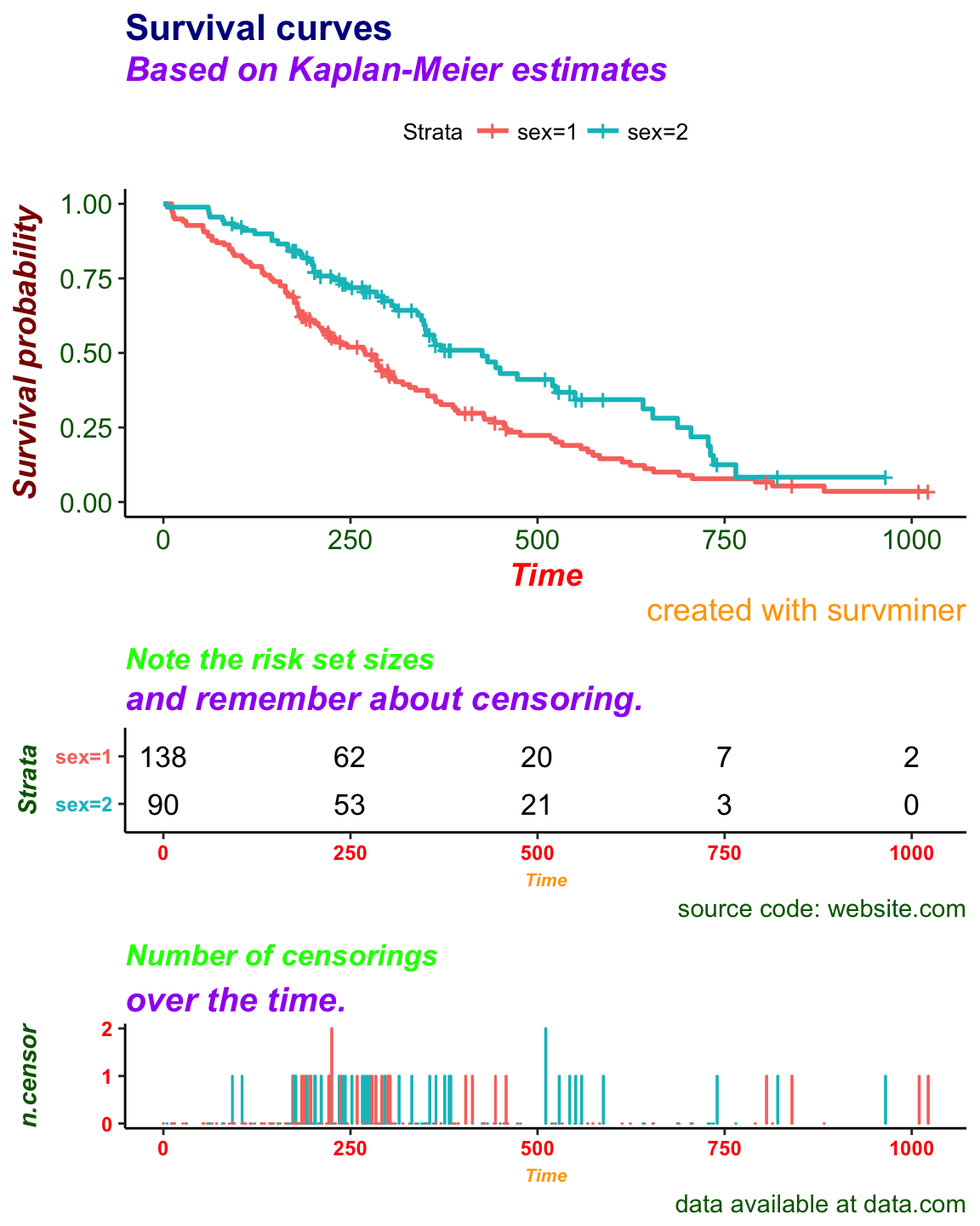
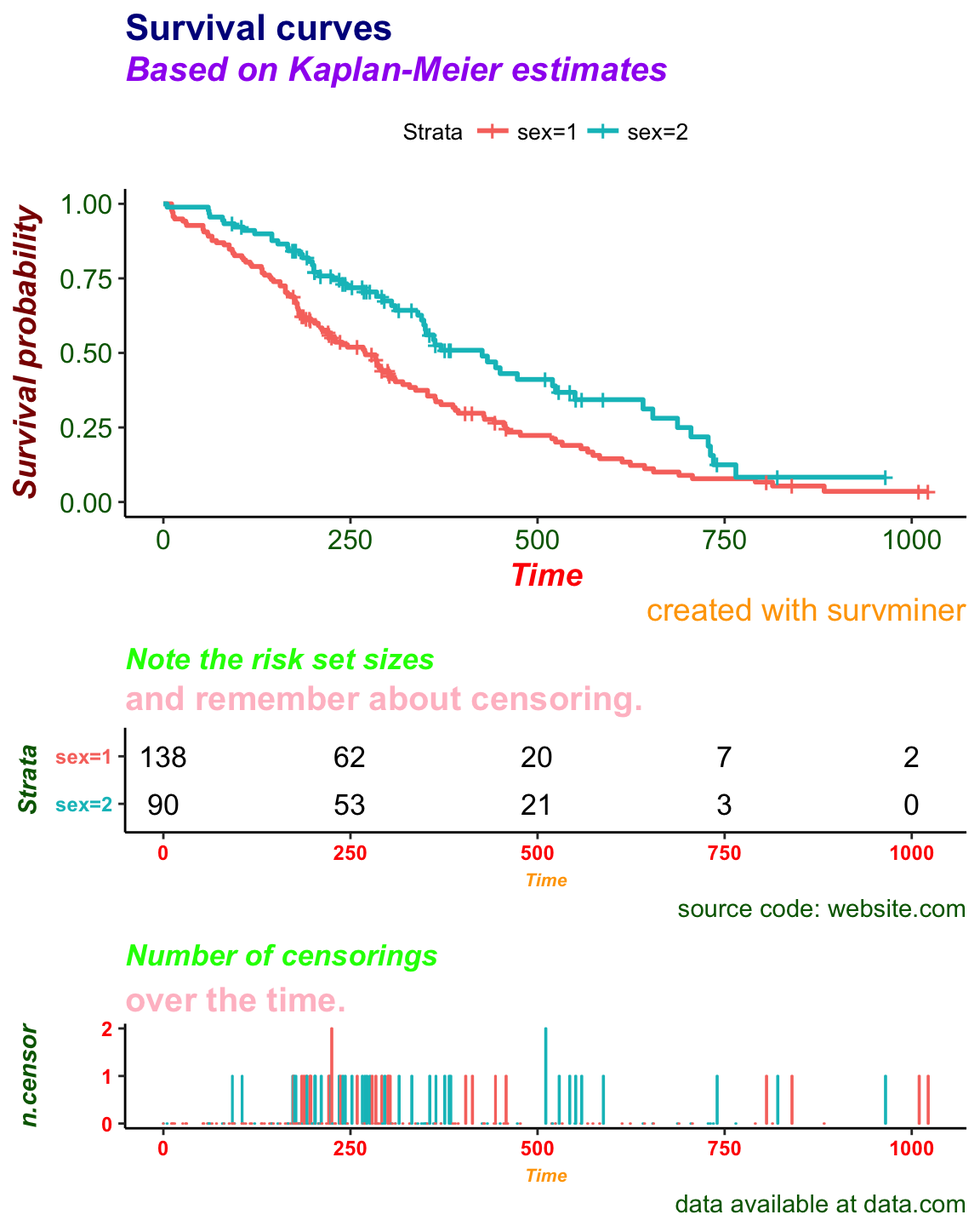
survminer pkgdown site built #116

Changed region(s): [[0.125, 0.5625, 0.6562, 0.5938], [0.125, 0.7812, 0.3438, 0.8438]]

diff --git a/docs/reference/ggsurvevents.html b/docs/reference/ggsurvevents.html
@@ -1,0 +1,166 @@
+<!-- Generated by pkgdown: do not edit by hand -->
+<!DOCTYPE html>
+<html>
+  <head>
+  <meta charset="utf-8">
+<meta http-equiv="X-UA-Compatible" content="IE=edge">
+<meta name="viewport" content="width=device-width, initial-scale=1.0">
+
+<title>Distribution of Event&#39;s Times — ggsurvevents • survminer</title>
+
+<!-- jquery -->
+<script src="https://code.jquery.com/jquery-3.1.0.min.js" integrity="sha384-nrOSfDHtoPMzJHjVTdCopGqIqeYETSXhZDFyniQ8ZHcVy08QesyHcnOUpMpqnmWq" crossorigin="anonymous"></script>
+<!-- Bootstrap -->
+<link href="https://maxcdn.bootstrapcdn.com/bootswatch/3.3.7/flatly/bootstrap.min.css" rel="stylesheet" crossorigin="anonymous">
+
+<script src="https://maxcdn.bootstrapcdn.com/bootstrap/3.3.7/js/bootstrap.min.js" integrity="sha384-Tc5IQib027qvyjSMfHjOMaLkfuWVxZxUPnCJA7l2mCWNIpG9mGCD8wGNIcPD7Txa" crossorigin="anonymous"></script>
+
+<!-- Font Awesome icons -->
+<link href="https://maxcdn.bootstrapcdn.com/font-awesome/4.6.3/css/font-awesome.min.css" rel="stylesheet" integrity="sha384-T8Gy5hrqNKT+hzMclPo118YTQO6cYprQmhrYwIiQ/3axmI1hQomh7Ud2hPOy8SP1" crossorigin="anonymous">
+
+
+<!-- pkgdown -->
+<link href="../pkgdown.css" rel="stylesheet">
+<script src="../jquery.sticky-kit.min.js"></script>
+<script src="../pkgdown.js"></script>
+
+<!-- mathjax -->
+<script src='https://cdn.mathjax.org/mathjax/latest/MathJax.js?config=TeX-AMS-MML_HTMLorMML'></script>
+
+<!--[if lt IE 9]>
+<script src="https://oss.maxcdn.com/html5shiv/3.7.3/html5shiv.min.js"></script>
+<script src="https://oss.maxcdn.com/respond/1.4.2/respond.min.js"></script>
+<![endif]-->
+  </head>
+
+  <body>
+    <div class="container template-reference-topic">
+      <header>
+      <div class="navbar navbar-default navbar-fixed-top" role="navigation">
+  <div class="container">
+    <div class="navbar-header">
+      <button type="button" class="navbar-toggle collapsed" data-toggle="collapse" data-target="#navbar">
+        <span class="icon-bar"></span>
+        <span class="icon-bar"></span>
+        <span class="icon-bar"></span>
+      </button>
+      <a class="navbar-brand" href="../index.html">survminer</a>
+    </div>
+    <div id="navbar" class="navbar-collapse collapse">
+      <ul class="nav navbar-nav">
+        <li>
+  <a href="../reference/index.html">Reference</a>
+</li>
+<li>
+  <a href="../articles/index.html">Articles</a>
+</li>
+<li>
+  <a href="../news/index.html">News</a>
+</li>
+      </ul>
+      
+      <ul class="nav navbar-nav navbar-right">
+        
+      </ul>
+    </div><!--/.nav-collapse -->
+  </div><!--/.container -->
+</div><!--/.navbar -->
+
+      
+      </header>
+
+      <div class="row">
+  <div class="col-md-9 contents">
+    <div class="page-header">
+    <h1>Distribution of Event&#39;s Times</h1>
+    </div>
+
+    
+    <p>Distribution of Event&#39;s Times</p>
+    
+
+    <pre><span class='fu'>ggsurvevents</span>(<span class='kw'>surv</span> <span class='kw'>=</span> <span class='kw'>NULL</span>, <span class='kw'>fit</span> <span class='kw'>=</span> <span class='kw'>NULL</span>, <span class='kw'>data</span> <span class='kw'>=</span> <span class='kw'>NULL</span>, <span class='kw'>type</span> <span class='kw'>=</span> <span class='st'>"fraction"</span>,
+  <span class='kw'>normalized</span> <span class='kw'>=</span> <span class='fl'>TRUE</span>, <span class='kw'>censored.on.top</span> <span class='kw'>=</span> <span class='fl'>TRUE</span>, <span class='kw'>ggtheme</span> <span class='kw'>=</span> <span class='fu'><a href='theme_classic2.html'>theme_classic2</a></span>(),
+  <span class='kw'>palette</span> <span class='kw'>=</span> <span class='fu'>c</span>(<span class='st'>"grey75"</span>, <span class='st'>"grey25"</span>), <span class='kw'>font.main</span> <span class='kw'>=</span> <span class='fu'>c</span>(<span class='fl'>16</span>, <span class='st'>"plain"</span>, <span class='st'>"black"</span>),
+  <span class='kw'>font.submain</span> <span class='kw'>=</span> <span class='fu'>c</span>(<span class='fl'>15</span>, <span class='st'>"plain"</span>, <span class='st'>"black"</span>), <span class='kw'>font.caption</span> <span class='kw'>=</span> <span class='fu'>c</span>(<span class='fl'>15</span>, <span class='st'>"plain"</span>,
+  <span class='st'>"black"</span>), <span class='kw'>font.x</span> <span class='kw'>=</span> <span class='fu'>c</span>(<span class='fl'>14</span>, <span class='st'>"plain"</span>, <span class='st'>"black"</span>), <span class='kw'>font.y</span> <span class='kw'>=</span> <span class='fu'>c</span>(<span class='fl'>14</span>, <span class='st'>"plain"</span>,
+  <span class='st'>"black"</span>), <span class='kw'>font.tickslab</span> <span class='kw'>=</span> <span class='fu'>c</span>(<span class='fl'>12</span>, <span class='st'>"plain"</span>, <span class='st'>"black"</span>))</pre>
+    
+    <h2 class="hasAnchor" id="arguments"><a class="anchor" href="#arguments"></a> Arguments</h2>
+    <dl class="dl-horizontal">
+      <dt>surv</dt>
+      <dd>an object of Surv. If not suplied, the censoring variable is extracted from the model.</dd>
+      <dt>fit</dt>
+      <dd>an object of class survfit.</dd>
+      <dt>data</dt>
+      <dd>a dataset for predictions. If not supplied then data will be extracted from `fit` object.</dd>
+      <dt>type</dt>
+      <dd>one of <code>c(&quot;cumulative&quot;, &quot;radius&quot;, &quot;fraction&quot;)</code>. <code>&quot;cumulative&quot;</code> stands for cumulative number of events, <code>&quot;radius&quot;</code> stands for number of events within a given radius,</dd>
+      <dt>normalized</dt>
+      <dd>if <code>TRUE</code> relative number of events is presented,</dd>
+      <dt>censored.on.top</dt>
+      <dd>is TRUE then censored events are on the top</dd>
+      <dt>ggtheme</dt>
+      <dd>function, ggplot2 theme name. Default value is theme_classic2. Allowed values include ggplot2 official themes: see theme.</dd>
+      <dt>palette</dt>
+      <dd>the color palette to be used for coloring of significant variables.</dd>
+      <dt>font.main, font.submain, font.caption, font.x, font.y, font.tickslab</dt>
+      <dd>a vector of length 3
+indicating respectively the size (e.g.: 14), the style (e.g.: &quot;plain&quot;,
+&quot;bold&quot;, &quot;italic&quot;, &quot;bold.italic&quot;) and the color (e.g.: &quot;red&quot;) of main title, subtitle, caption,
+xlab and ylab and axis tick labels, respectively. For example <em>font.x =
+c(14, &quot;bold&quot;, &quot;red&quot;)</em>.  Use font.x = 14, to change only font size; or use
+font.x = &quot;bold&quot;, to change only font face.</dd>
+    </dl>
+    
+    <h2 class="hasAnchor" id="value"><a class="anchor" href="#value"></a>Value</h2>
+
+    <p>return an object of class ggplot</p>
+    
+
+    <h2 class="hasAnchor" id="examples"><a class="anchor" href="#examples"></a>Examples</h2>
+    <pre class="examples"><div class='input'><span class='fu'>require</span>(<span class='st'>"survival"</span>)
+<span class='co'># from Surv</span>
+<span class='no'>surv</span> <span class='kw'>&lt;-</span> <span class='fu'>Surv</span>(<span class='no'>lung</span>$<span class='no'>time</span>, <span class='no'>lung</span>$<span class='no'>status</span>)
+<span class='fu'>ggsurvevents</span>(<span class='no'>surv</span>)</div><img src='ggsurvevents-2.png' alt='' width='540' height='400' /><div class='input'>
+<span class='no'>surv2</span> <span class='kw'>&lt;-</span> <span class='fu'>Surv</span>(<span class='no'>colon</span>$<span class='no'>time</span>, <span class='no'>colon</span>$<span class='no'>status</span>)
+<span class='fu'>ggsurvevents</span>(<span class='no'>surv2</span>)</div><img src='ggsurvevents-4.png' alt='' width='540' height='400' /><div class='input'><span class='fu'>ggsurvevents</span>(<span class='no'>surv2</span>, <span class='kw'>normalized</span> <span class='kw'>=</span> <span class='fl'>TRUE</span>)</div><img src='ggsurvevents-6.png' alt='' width='540' height='400' /><div class='input'>
+<span class='co'># from survfit</span>
+<span class='no'>fit</span> <span class='kw'>&lt;-</span> <span class='fu'>survfit</span>(<span class='fu'>Surv</span>(<span class='no'>time</span>, <span class='no'>status</span>) ~ <span class='no'>sex</span>, <span class='kw'>data</span> <span class='kw'>=</span> <span class='no'>lung</span>)
+<span class='fu'>ggsurvevents</span>(<span class='kw'>fit</span> <span class='kw'>=</span> <span class='no'>fit</span>)</div><div class='output co'>#&gt; <span class='warning'>Warning: The `surv` argument is not provided. The censored variable will be extracted from model fit.</span></div><div class='output co'>#&gt; <span class='warning'>Warning: The `data` argument is not provided. Data will be extracted from model fit.</span></div><img src='ggsurvevents-10.png' alt='' width='540' height='400' /><div class='input'>
+<span class='co'># from coxph</span>
+<span class='no'>model</span> <span class='kw'>&lt;-</span> <span class='fu'>coxph</span>( <span class='fu'>Surv</span>(<span class='no'>time</span>, <span class='no'>status</span>) ~ <span class='no'>sex</span> + <span class='no'>rx</span> + <span class='no'>adhere</span>, <span class='kw'>data</span> <span class='kw'>=</span> <span class='no'>colon</span> )
+<span class='fu'>ggsurvevents</span>(<span class='kw'>fit</span> <span class='kw'>=</span> <span class='no'>model</span>)</div><div class='output co'>#&gt; <span class='warning'>Warning: The `surv` argument is not provided. The censored variable will be extracted from model fit.</span></div><div class='output co'>#&gt; <span class='warning'>Warning: The `data` argument is not provided. Data will be extracted from model fit.</span></div><img src='ggsurvevents-14.png' alt='' width='540' height='400' /><div class='input'><span class='fu'>ggsurvevents</span>(<span class='no'>surv2</span>, <span class='kw'>normalized</span> <span class='kw'>=</span> <span class='fl'>TRUE</span>, <span class='kw'>type</span> <span class='kw'>=</span> <span class='st'>"radius"</span>)</div><img src='ggsurvevents-16.png' alt='' width='540' height='400' /><div class='input'><span class='fu'>ggsurvevents</span>(<span class='no'>surv2</span>, <span class='kw'>normalized</span> <span class='kw'>=</span> <span class='fl'>TRUE</span>, <span class='kw'>type</span> <span class='kw'>=</span> <span class='st'>"fraction"</span>)</div><img src='ggsurvevents-18.png' alt='' width='540' height='400' /><div class='input'>
+</div></pre>
+  </div>
+  <div class="col-md-3 hidden-xs hidden-sm" id="sidebar">
+    <h2>Contents</h2>
+    <ul class="nav nav-pills nav-stacked">
+      <li><a href="#arguments">Arguments</a></li>
+      
+      <li><a href="#value">Value</a></li>
+      
+      <li><a href="#examples">Examples</a></li>
+    </ul>
+
+    <h2>Author</h2>
+    
+Przemyslaw Biecek, <a href='mailto:przemyslaw.biecek@gmail.com'>przemyslaw.biecek@gmail.com</a>
+
+  </div>
+</div>
+
+      <footer>
+      <div class="copyright">
+  <p>Developed by Alboukadel Kassambara, Marcin Kosinski.</p>
+</div>
+
+<div class="pkgdown">
+  <p>Site built with <a href="http://hadley.github.io/pkgdown/">pkgdown</a>.</p>
+</div>
+
+      </footer>
+   </div>
+
+  </body>
+</html>

diff --git a/docs/reference/ggcoxadjustedcurves.html b/docs/reference/ggcoxadjustedcurves.html
@@ -83,9 +83,9 @@ Then the predictions are averaged with respect to a selected variable.</p>
     
 
     <pre><span class='fu'>ggcoxadjustedcurves</span>(<span class='no'>fit</span>, <span class='kw'>variable</span> <span class='kw'>=</span> <span class='kw'>NULL</span>, <span class='kw'>individual.curves</span> <span class='kw'>=</span> <span class='fl'>FALSE</span>,
-  <span class='kw'>data</span> <span class='kw'>=</span> <span class='kw'>NULL</span>, <span class='kw'>curve.size</span> <span class='kw'>=</span> <span class='fl'>2</span>, <span class='kw'>curve.alpha</span> <span class='kw'>=</span> <span class='fl'>0.2</span>, <span class='kw'>font.main</span> <span class='kw'>=</span> <span class='fu'>c</span>(<span class='fl'>16</span>,
-  <span class='st'>"plain"</span>, <span class='st'>"black"</span>), <span class='kw'>font.x</span> <span class='kw'>=</span> <span class='fu'>c</span>(<span class='fl'>14</span>, <span class='st'>"plain"</span>, <span class='st'>"black"</span>), <span class='kw'>font.y</span> <span class='kw'>=</span> <span class='fu'>c</span>(<span class='fl'>14</span>,
-  <span class='st'>"plain"</span>, <span class='st'>"black"</span>), <span class='kw'>font.tickslab</span> <span class='kw'>=</span> <span class='fu'>c</span>(<span class='fl'>12</span>, <span class='st'>"plain"</span>, <span class='st'>"black"</span>),
+  <span class='kw'>data</span> <span class='kw'>=</span> <span class='kw'>NULL</span>, <span class='kw'>palette</span> <span class='kw'>=</span> <span class='st'>"hue"</span>, <span class='kw'>curve.size</span> <span class='kw'>=</span> <span class='fl'>2</span>, <span class='kw'>curve.alpha</span> <span class='kw'>=</span> <span class='fl'>0.2</span>,
+  <span class='kw'>font.main</span> <span class='kw'>=</span> <span class='fu'>c</span>(<span class='fl'>16</span>, <span class='st'>"plain"</span>, <span class='st'>"black"</span>), <span class='kw'>font.x</span> <span class='kw'>=</span> <span class='fu'>c</span>(<span class='fl'>14</span>, <span class='st'>"plain"</span>, <span class='st'>"black"</span>),
+  <span class='kw'>font.y</span> <span class='kw'>=</span> <span class='fu'>c</span>(<span class='fl'>14</span>, <span class='st'>"plain"</span>, <span class='st'>"black"</span>), <span class='kw'>font.tickslab</span> <span class='kw'>=</span> <span class='fu'>c</span>(<span class='fl'>12</span>, <span class='st'>"plain"</span>, <span class='st'>"black"</span>),
   <span class='kw'>ylab</span> <span class='kw'>=</span> <span class='st'>"Survival rate"</span>, <span class='kw'>ggtheme</span> <span class='kw'>=</span> <span class='fu'><a href='theme_classic2.html'>theme_classic2</a></span>())</pre>
     
     <h2 class="hasAnchor" id="arguments"><a class="anchor" href="#arguments"></a> Arguments</h2>
@@ -98,6 +98,13 @@ Then the predictions are averaged with respect to a selected variable.</p>
       <dd>if TRUE then all individual predicted survival curves will be plotted</dd>
       <dt>data</dt>
       <dd>a dataset for predictions. If not supplied then data will be extracted from `fit` object.</dd>
+      <dt>palette</dt>
+      <dd>the color palette to be used for coloring or filling by
+groups. Allowed values include &quot;grey&quot; for grey color palettes; brewer
+palettes e.g. &quot;RdBu&quot;, &quot;Blues&quot;, ...; or custom color palette e.g. c(&quot;blue&quot;,
+&quot;red&quot;); and scientific journal palettes from ggsci R package, e.g.: &quot;npg&quot;,
+&quot;aaas&quot;, &quot;lancet&quot;, &quot;jco&quot;, &quot;ucscgb&quot;, &quot;uchicago&quot;, &quot;simpsons&quot; and
+&quot;rickandmorty&quot;.</dd>
       <dt>curve.size, curve.alpha</dt>
       <dd>size and alpha for individual survival curves</dd>
       <dt>font.main, font.x, font.y, font.tickslab</dt>
@@ -126,8 +133,8 @@ Allowed values include ggplot2 official themes: see <code><a href='http://www.rd
 
 <span class='fu'>ggcoxadjustedcurves</span>(<span class='no'>fit</span>, <span class='kw'>data</span> <span class='kw'>=</span> <span class='no'>colon</span>)</div><img src='ggcoxadjustedcurves-2.png' alt='' width='540' height='400' /><div class='input'>
 <span class='no'>fit2</span> <span class='kw'>&lt;-</span> <span class='fu'>coxph</span>( <span class='fu'>Surv</span>(<span class='no'>stop</span>, <span class='no'>event</span>) ~ <span class='no'>rx</span> + <span class='no'>size</span>, <span class='kw'>data</span> <span class='kw'>=</span> <span class='no'>bladder</span> )
-<span class='fu'>ggcoxadjustedcurves</span>(<span class='no'>fit2</span>)</div><div class='output co'>#&gt; <span class='warning'>Warning: The `data` argument is not provided. Data will be extracted from model fit.</span></div><img src='ggcoxadjustedcurves-5.png' alt='' width='540' height='400' /><div class='input'><span class='fu'>ggcoxadjustedcurves</span>(<span class='no'>fit2</span>, <span class='kw'>individual.curves</span> <span class='kw'>=</span> <span class='fl'>TRUE</span>, <span class='kw'>data</span> <span class='kw'>=</span> <span class='no'>bladder</span>, <span class='kw'>curve.alpha</span><span class='kw'>=</span><span class='fl'>0.01</span>)</div><img src='ggcoxadjustedcurves-7.png' alt='' width='540' height='400' /><div class='input'><span class='fu'>ggcoxadjustedcurves</span>(<span class='no'>fit2</span>, <span class='kw'>individual.curves</span> <span class='kw'>=</span> <span class='fl'>TRUE</span>, <span class='kw'>curve.alpha</span><span class='kw'>=</span><span class='fl'>0.01</span>)</div><div class='output co'>#&gt; <span class='warning'>Warning: The `data` argument is not provided. Data will be extracted from model fit.</span></div><img src='ggcoxadjustedcurves-10.png' alt='' width='540' height='400' /><div class='input'><span class='fu'>ggcoxadjustedcurves</span>(<span class='no'>fit2</span>, <span class='kw'>variable</span><span class='kw'>=</span><span class='fu'>factor</span>( <span class='no'>bladder</span>[,<span class='st'>"rx"</span>]))</div><div class='output co'>#&gt; <span class='warning'>Warning: The `data` argument is not provided. Data will be extracted from model fit.</span></div><img src='ggcoxadjustedcurves-13.png' alt='' width='540' height='400' /><div class='input'><span class='fu'>ggcoxadjustedcurves</span>(<span class='no'>fit2</span>, <span class='kw'>variable</span><span class='kw'>=</span><span class='fu'>factor</span>(<span class='no'>bladder</span>[,<span class='st'>"rx"</span>]),
-   <span class='kw'>individual.curves</span><span class='kw'>=</span><span class='fl'>TRUE</span>, <span class='kw'>curve.alpha</span><span class='kw'>=</span><span class='fl'>0.01</span>)</div><div class='output co'>#&gt; <span class='warning'>Warning: The `data` argument is not provided. Data will be extracted from model fit.</span></div><img src='ggcoxadjustedcurves-16.png' alt='' width='540' height='400' /><div class='input'>
+<span class='fu'>ggcoxadjustedcurves</span>(<span class='no'>fit2</span>, <span class='kw'>data</span> <span class='kw'>=</span> <span class='no'>bladder</span>)</div><img src='ggcoxadjustedcurves-4.png' alt='' width='540' height='400' /><div class='input'><span class='fu'>ggcoxadjustedcurves</span>(<span class='no'>fit2</span>, <span class='kw'>individual.curves</span> <span class='kw'>=</span> <span class='fl'>TRUE</span>, <span class='kw'>data</span> <span class='kw'>=</span> <span class='no'>bladder</span>, <span class='kw'>curve.alpha</span><span class='kw'>=</span><span class='fl'>0.01</span>)</div><img src='ggcoxadjustedcurves-6.png' alt='' width='540' height='400' /><div class='input'><span class='fu'>ggcoxadjustedcurves</span>(<span class='no'>fit2</span>, <span class='kw'>data</span> <span class='kw'>=</span> <span class='no'>bladder</span>, <span class='kw'>variable</span><span class='kw'>=</span><span class='fu'>factor</span>( <span class='no'>bladder</span>[,<span class='st'>"rx"</span>]))</div><img src='ggcoxadjustedcurves-8.png' alt='' width='540' height='400' /><div class='input'><span class='fu'>ggcoxadjustedcurves</span>(<span class='no'>fit2</span>, <span class='kw'>data</span> <span class='kw'>=</span> <span class='no'>bladder</span>, <span class='kw'>variable</span><span class='kw'>=</span><span class='fu'>factor</span>(<span class='no'>bladder</span>[,<span class='st'>"rx"</span>]),
+   <span class='kw'>individual.curves</span><span class='kw'>=</span><span class='fl'>TRUE</span>, <span class='kw'>curve.alpha</span><span class='kw'>=</span><span class='fl'>0.01</span>)</div><img src='ggcoxadjustedcurves-10.png' alt='' width='540' height='400' /><div class='input'>
 </div></pre>
   </div>
   <div class="col-md-3 hidden-xs hidden-sm" id="sidebar">

diff --git a/docs/reference/ggsurvplot.html b/docs/reference/ggsurvplot.html
@@ -494,7 +494,7 @@ linetype, size, ...</dd>
   <span class='kw'>risk.table.caption</span> <span class='kw'>=</span> <span class='st'>"source code: website.com"</span>,
   <span class='kw'>risk.table.height</span> <span class='kw'>=</span> <span class='fl'>0.35</span>,
   <span class='kw'>font.risk.table.title</span> <span class='kw'>=</span> <span class='fu'>c</span>(<span class='fl'>13</span>, <span class='st'>"bold.italic"</span>, <span class='st'>"green"</span>),
-  <span class='kw'>font.risk.table.sutitle</span> <span class='kw'>=</span> <span class='fu'>c</span>(<span class='fl'>15</span>, <span class='st'>"bold"</span>, <span class='st'>"pink"</span>),
+  <span class='kw'>font.risk.table.subtitle</span> <span class='kw'>=</span> <span class='fu'>c</span>(<span class='fl'>15</span>, <span class='st'>"bold"</span>, <span class='st'>"pink"</span>),
   <span class='kw'>font.risk.table.caption</span> <span class='kw'>=</span> <span class='fu'>c</span>(<span class='fl'>11</span>, <span class='st'>"plain"</span>, <span class='st'>"darkgreen"</span>),
   <span class='kw'>font.risk.table.x</span> <span class='kw'>=</span> <span class='fu'>c</span>(<span class='fl'>8</span>, <span class='st'>"bold.italic"</span>, <span class='st'>"orange"</span>),
   <span class='kw'>font.risk.table.y</span> <span class='kw'>=</span> <span class='fu'>c</span>(<span class='fl'>11</span>, <span class='st'>"bold.italic"</span>, <span class='st'>"darkgreen"</span>),
@@ -506,11 +506,11 @@ linetype, size, ...</dd>
   <span class='kw'>ncensor.plot.caption</span> <span class='kw'>=</span> <span class='st'>"data available at data.com"</span>,
   <span class='kw'>ncensor.plot.height</span> <span class='kw'>=</span> <span class='fl'>0.35</span>,
   <span class='kw'>font.ncensor.plot.title</span> <span class='kw'>=</span> <span class='fu'>c</span>(<span class='fl'>13</span>, <span class='st'>"bold.italic"</span>, <span class='st'>"green"</span>),
-  <span class='kw'>font.ncensor.plot.sutitle</span> <span class='kw'>=</span> <span class='fu'>c</span>(<span class='fl'>15</span>, <span class='st'>"bold"</span>, <span class='st'>"pink"</span>),
+  <span class='kw'>font.ncensor.plot.subtitle</span> <span class='kw'>=</span> <span class='fu'>c</span>(<span class='fl'>15</span>, <span class='st'>"bold"</span>, <span class='st'>"pink"</span>),
   <span class='kw'>font.ncensor.plot.caption</span> <span class='kw'>=</span> <span class='fu'>c</span>(<span class='fl'>11</span>, <span class='st'>"plain"</span>, <span class='st'>"darkgreen"</span>),
   <span class='kw'>font.ncensor.plot.x</span> <span class='kw'>=</span> <span class='fu'>c</span>(<span class='fl'>8</span>, <span class='st'>"bold.italic"</span>, <span class='st'>"orange"</span>),
   <span class='kw'>font.ncensor.plot.y</span> <span class='kw'>=</span> <span class='fu'>c</span>(<span class='fl'>11</span>, <span class='st'>"bold.italic"</span>, <span class='st'>"darkgreen"</span>),
-  <span class='kw'>font.ncensor.plot.tickslab</span> <span class='kw'>=</span> <span class='fu'>c</span>(<span class='fl'>9</span>, <span class='st'>"bold"</span>, <span class='st'>"red"</span>))</div><div class='output co'>#&gt; <span class='warning'>Warning: la condition a une longueur &gt; 1 et seul le premier élément est utilisé</span></div><div class='output co'>#&gt; <span class='warning'>Warning: la condition a une longueur &gt; 1 et seul le premier élément est utilisé</span></div><img src='ggsurvplot-18.png' alt='' width='540' height='400' /><div class='input'>
+  <span class='kw'>font.ncensor.plot.tickslab</span> <span class='kw'>=</span> <span class='fu'>c</span>(<span class='fl'>9</span>, <span class='st'>"bold"</span>, <span class='st'>"red"</span>))</div><img src='ggsurvplot-16.png' alt='' width='540' height='400' /><div class='input'>
 
 
 </div></pre>

diff --git a/docs/index.html b/docs/index.html
@@ -245,7 +245,7 @@ fit &lt;-<span class="st"> </span><span class="kw">survfit</span>(<span class="k
   <span class="dt">risk.table.caption =</span> <span class="st">"source code: website.com"</span>,
   <span class="dt">risk.table.height =</span> <span class="fl">0.35</span>,
   <span class="dt">font.risk.table.title =</span> <span class="kw">c</span>(<span class="dv">13</span>, <span class="st">"bold.italic"</span>, <span class="st">"green"</span>),
-  <span class="dt">font.risk.table.sutitle =</span> <span class="kw">c</span>(<span class="dv">15</span>, <span class="st">"bold"</span>, <span class="st">"pink"</span>),
+  <span class="dt">font.risk.table.subtitle =</span> <span class="kw">c</span>(<span class="dv">15</span>, <span class="st">"bold"</span>, <span class="st">"pink"</span>),
   <span class="dt">font.risk.table.caption =</span> <span class="kw">c</span>(<span class="dv">11</span>, <span class="st">"plain"</span>, <span class="st">"darkgreen"</span>),
   <span class="dt">font.risk.table.x =</span> <span class="kw">c</span>(<span class="dv">8</span>, <span class="st">"bold.italic"</span>, <span class="st">"orange"</span>),
   <span class="dt">font.risk.table.y =</span> <span class="kw">c</span>(<span class="dv">11</span>, <span class="st">"bold.italic"</span>, <span class="st">"darkgreen"</span>),
@@ -257,7 +257,7 @@ fit &lt;-<span class="st"> </span><span class="kw">survfit</span>(<span class="k
   <span class="dt">ncensor.plot.caption =</span> <span class="st">"data available at data.com"</span>,
   <span class="dt">ncensor.plot.height =</span> <span class="fl">0.35</span>,
   <span class="dt">font.ncensor.plot.title =</span> <span class="kw">c</span>(<span class="dv">13</span>, <span class="st">"bold.italic"</span>, <span class="st">"green"</span>),
-  <span class="dt">font.ncensor.plot.sutitle =</span> <span class="kw">c</span>(<span class="dv">15</span>, <span class="st">"bold"</span>, <span class="st">"pink"</span>),
+  <span class="dt">font.ncensor.plot.subtitle =</span> <span class="kw">c</span>(<span class="dv">15</span>, <span class="st">"bold"</span>, <span class="st">"pink"</span>),
   <span class="dt">font.ncensor.plot.caption =</span> <span class="kw">c</span>(<span class="dv">11</span>, <span class="st">"plain"</span>, <span class="st">"darkgreen"</span>),
   <span class="dt">font.ncensor.plot.x =</span> <span class="kw">c</span>(<span class="dv">8</span>, <span class="st">"bold.italic"</span>, <span class="st">"orange"</span>),
   <span class="dt">font.ncensor.plot.y =</span> <span class="kw">c</span>(<span class="dv">11</span>, <span class="st">"bold.italic"</span>, <span class="st">"darkgreen"</span>),
@@ -269,7 +269,7 @@ fit &lt;-<span class="st"> </span><span class="kw">survfit</span>(<span class="k
 <h2 class="hasAnchor">
 <a href="#blog-posts" class="anchor"> </a>Blog posts</h2>
 <ul>
-<li><p>M. Kosiński. R-ADDICT January 2017. <a href="http://r-addict.com/2017/01/29/Fancy-Survival-Plots.html">Comparing (Fancy) Survival Curves with Weighted Log-rank Tests</a></p></li>
+<li><p>M. Kosiński. R-ADDICT January 2017. <a href="http://r-addict.com/2017/02/09/Fancy-Survival-Plots.html">Comparing (Fancy) Survival Curves with Weighted Log-rank Tests</a></p></li>
 <li><p>M. Kosiński. R-ADDICT January 2017. <a href="http://r-addict.com/2017/01/15/Too-Far-With-Survival-Plots.html">When You Went too Far with Survival Plots During the survminer 1st Anniversary</a></p></li>
 <li><p>A. Kassambara. STHDA December 2016. <a href="http://www.sthda.com/english/wiki/survival-analysis-basics">Survival Analysis Basics: Curves and Logrank Tests</a></p></li>
 <li><p>A. Kassambara. STHDA December 2016. <a href="http://www.sthda.com/english/wiki/cox-proportional-hazards-model">Cox Proportional Hazards Model</a></p></li>

diff --git a/docs/news/index.html b/docs/news/index.html
@@ -95,6 +95,7 @@
 <h2 class="hasAnchor">
 <a href="#major-changes" class="anchor"> </a>Major changes</h2>
 <ul>
+<li><p>Additional <code>data</code> argument added to the <code><a href="../reference/ggsurvplot.html">ggsurvplot()</a></code> function (<a href="https://github.com/kassambara/survminer/issues/142">@kassambara, #142</a>). Now, it’s recommended to pass to the function, the data used to fit survival curves. This will avoid the error generated when trying to use the <code><a href="../reference/ggsurvplot.html">ggsurvplot()</a></code> function inside another functions (<a href="https://github.com/kassambara/survminer/issues/125">@zzawadz, #125</a>).</p></li>
 <li>New fonts and texts customization features for <code>ggsurvplot</code> (<a href="https://github.com/kassambara/survminer/issues/105">@MarcinKosinski, #105</a>) (<a href="https://github.com/kassambara/survminer/issues/106">@MarcinKosinski, #106</a>)
 <ul>
 <li>It is possible to specify subtitle (param <code>submain</code>) and caption (param <code>caption</code>) for the <code>curve</code> part of the <code>ggsurvplot</code>.</li>
@@ -147,7 +148,7 @@ doc =<span class="st"> </span><span class="kw">addPlot</span>(doc, function() <s
 <h2 class="hasAnchor">
 <a href="#bug-fixes" class="anchor"> </a>Bug fixes</h2>
 <ul>
-<li><p>Now, <code>gggcoxzph()</code> works for univariate Cox analysis (<a href="https://github.com/kassambara/survminer/issues/103">#103</a>).</p></li>
+<li><p>Now, <code><a href="../reference/ggcoxzph.html">ggcoxzph()</a></code> works for univariate Cox analysis (<a href="https://github.com/kassambara/survminer/issues/103">#103</a>).</p></li>
 <li><p>Now, <code><a href="../reference/ggcoxdiagnostics.html">ggcoxdiagnostics()</a></code> works properly for schoenfeld residuals (<a href="https://github.com/kassambara/survminer/issues/122">@pbiecek, #119</a>).</p></li>
 <li><p>Now, <code><a href="../reference/ggsurvplot.html">ggsurvplot()</a></code> works properly in the situation where <code>strata()</code> is included in the cox formula (<a href="https://github.com/kassambara/survminer/issues/109">#109</a>).</p></li>
 </ul>

diff --git a/docs/reference/index.html b/docs/reference/index.html
@@ -81,6 +81,11 @@
       <p class="section-desc"><p>Summarize and visualize survival curves.</p></p>
 
       
+      <p><a href="ggsurvevents.html">Distribution of Event's Times</a></p>
+      <ul>
+        <li><code><a href="ggsurvevents.html">ggsurvevents</a></code></li>
+      </ul>
+      
       <p><a href="ggsurvplot.html">Drawing Survival Curves Using ggplot2</a></p>
       <ul>
         <li><code><a href="ggsurvplot.html">ggsurvplot</a></code></li><li><code><a href="ggsurvplot.html">print.ggsurvplot</a></code></li>

diff --git a/README.md b/README.md
@@ -48,7 +48,6 @@ Load survminer:
 
 ``` r
 library("survminer")
-# Loading required package: ggplot2
 ```
 
 ggsurvplot: Drawing survival curves
@@ -58,7 +57,6 @@ ggsurvplot: Drawing survival curves
 
 ``` r
 require("survival")
-# Loading required package: survival
 fit <- survfit(Surv(time, status) ~ sex, data = lung)
 ```
 
@@ -237,7 +235,7 @@ ggsurvplot(fit, data = lung, main = "Survival curves", submain = "Based on Kapla
 Blog posts
 ----------
 
--   M. Kosiński. R-ADDICT January 2017. [Comparing (Fancy) Survival Curves with Weighted Log-rank Tests](http://r-addict.com/2017/01/29/Fancy-Survival-Plots.html)
+-   M. Kosiński. R-ADDICT January 2017. [Comparing (Fancy) Survival Curves with Weighted Log-rank Tests](http://r-addict.com/2017/02/09/Fancy-Survival-Plots.html)
 
 -   M. Kosiński. R-ADDICT January 2017. [When You Went too Far with Survival Plots During the survminer 1st Anniversary](http://r-addict.com/2017/01/15/Too-Far-With-Survival-Plots.html)
 
